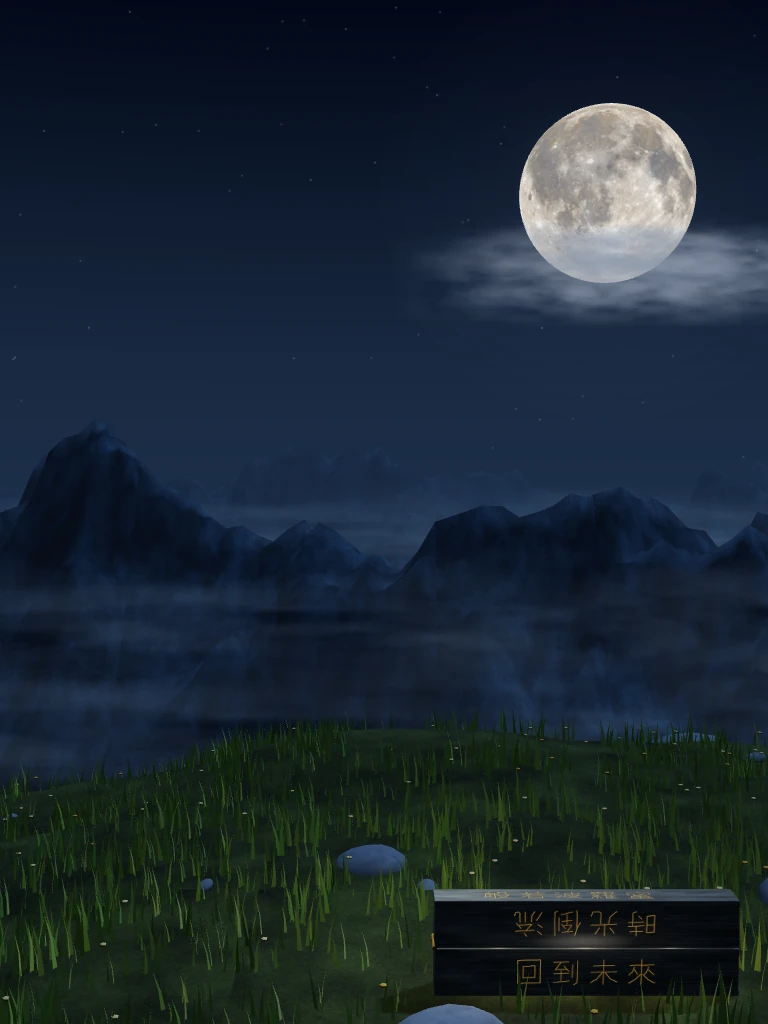
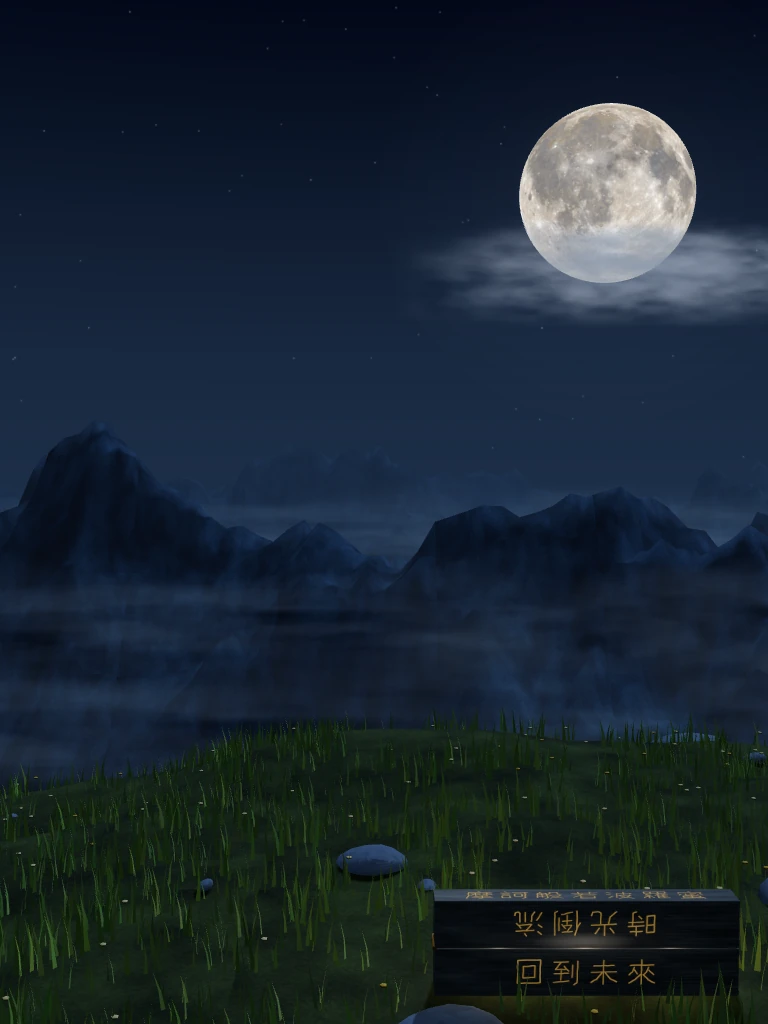
鼠标样式

diff --git a/src/scene/chest-engraving.ts b/src/scene/chest-engraving.ts
@@ -1,5 +1,8 @@
 /** 手绘繁体刻字笔画；保留不规则刻线，颜色、槽深和金色发光均由同一路径生成。 */
 export const glyphs: Record<string, string[]> = {
+  // 「摩訶」沿用手刻路径；訶保留完整言字旁，不能使用简体讠替代。
+  "摩": ["M49 5L57 13M17 28L19 18L95 15M17 28L15 63L6 96", "M25 36L57 34M40 25L39 60M35 40L23 56M44 40L55 53", "M62 35L93 33M77 24L76 60M72 40L59 56M80 39L94 53", "M77 62L36 68M28 77L87 73M24 87L92 82M59 67L58 94L46 98"],
+  "訶": ["M18 7L26 15M5 27L39 25M10 39L35 37M10 51L35 49", "M10 63L35 61L35 90L10 92Z", "M44 20L96 18M51 39L75 37L75 68L50 70ZM86 20L85 89L74 96"],
   "回": ["M13 12L88 10L87 92L12 94ZM31 33L70 31L69 73L30 75Z"],
   "到": ["M8 16L57 13M32 16L14 42L53 39M42 28L59 47", "M10 57L59 54M34 44L33 81M8 88L61 81", "M71 23L70 70M87 8L87 88L76 95"],
   "未": ["M16 29L85 26M8 52L93 48M50 7L49 95", "M45 52L28 76L8 89M55 52L72 74L94 85"],
@@ -17,6 +20,9 @@ export const glyphs: Record<string, string[]> = {
   "寶": ["M47 4L54 12M13 29L15 17L90 15L89 28", "M18 34L44 32M20 45L43 43M30 34L30 56M16 57L45 54", "M57 29L50 40L88 38M60 38L59 54L80 53L82 39M49 58L90 56M70 42L70 56", "M29 64L77 61L77 85L28 88ZM30 72L75 69M29 80L76 77M37 88L14 98M65 86L88 96"],
   "盒": ["M50 8L30 30L8 40M50 9L70 26L92 34M30 34L72 32", "M29 43L75 41L74 60L28 62ZM18 72L84 69L83 90L18 93ZM37 72L37 91M62 71L62 90M9 95L93 92"],
 };
+
+/** 七字咒文在 1536 像素木面上居中排布，保留原有字高与加粗刀槽。 */
+export const spellEngraving = { text: "摩訶般若波羅蜜", x: 150, y: 46, size: 156, spacing: 180 } as const;
 
 /** 字序与每字角度独立控制；围绕字心旋转不会镜像笔画或改变槽深。 */
 type GlyphTransform = { reverse?: boolean; rotation?: number };

diff --git a/src/scene/chest.ts b/src/scene/chest.ts
@@ -3,7 +3,7 @@ import { Initialization } from "./initialization";
 import { ownTree } from "./resources";
 import { RoundedBoxGeometry } from "three/addons/geometries/RoundedBoxGeometry.js";
 import { seededRandom } from "./terrain-math";
-import { engrave, engravingSweep } from "./chest-engraving";
+import { engrave, engravingSweep, spellEngraving } from "./chest-engraving";
 import { chestPlacement } from "./chest-placement";
 import { chestPose } from "./chest-motion";
 import { glowTexture } from "./textures";
@@ -61,7 +61,11 @@ async function makeWood(face: "plain" | "spell" | "name" | "return", init: Initi
     ctx.fillRect(x, y, random() * 35, 1 + random() * 2);
   }
   // 三种纹理同步生成并旋转；展开侧面补偿真实转轴带来的倒置，字形本身不镜像。
-  if (face === "spell") engrave(ctx, bump, glow, "般若波羅蜜", 245, 46, 156, 180);
+  if (face === "spell") {
+    // 完整繁体咒文共用一个排版来源，颜色、槽深、发光和浏览器验收不会漏掉前两个字。
+    const { text, x, y, size, spacing } = spellEngraving;
+    engrave(ctx, bump, glow, text, x, y, size, spacing);
+  }
   if (face === "name") engrave(ctx, bump, glow, "回到未來", 398, 46, 154, 190);
   if (face === "return") engrave(ctx, bump, glow, "時光倒流", 398, 46, 154, 190,
     { reverse: true, rotation: Math.PI });

diff --git a/tests/engraving.test.ts b/tests/engraving.test.ts
@@ -4,7 +4,7 @@ import { engrave, engravingPlacements, glyphs, carvedStrokes, engravingSweep } f
 
 // 三处刻字的全部繁体字都必须有手绘路径，禁止悄悄回退到平台字体。
 test("all three inscriptions have complete hand drawn glyphs", () => {
-  for (const letter of "回到未來般若波羅蜜時光倒流") {
+  for (const letter of "回到未來摩訶般若波羅蜜時光倒流") {
     assert.ok(glyphs[letter]?.length, `缺少字形：${letter}`);
     assert.ok(glyphs[letter].every((stroke) => stroke.startsWith("M")));
   }
@@ -26,7 +26,7 @@ test("gold color, recessed height and soft emission share every glyph transform"
     return ctx;
   };
   try {
-    for (const [text, transform] of [["回到未來", {}], ["般若波羅蜜", {}],
+    for (const [text, transform] of [["回到未來", {}], ["摩訶般若波羅蜜", {}],
       ["時光倒流", { reverse: true, rotation: Math.PI }]] as const) {
       const color = context(), height = context(), emission = context();
       engrave(color, height, emission, text, 100, 40, 154, 190, transform);

diff --git a/src/style.css b/src/style.css
@@ -36,6 +36,20 @@ button:disabled {
 ::selection {
   background: #b398694d;
 }
+/* 桌面精细指针采用原生光标：3,3 对准缩小后棒头的前缘，不使用有跟随延迟的页面装饰层。 */
+@media (min-width: 1024px) and (hover: hover) and (pointer: fine) {
+  :root {
+    cursor: url("/assets/golden-staff-cursor.svg") 3 3, auto;
+  }
+  /* 链接和宝盒按钮共用同一棒头热点；保留原生回退与禁用按钮的等待状态。 */
+  a,
+  #box-button:not(:disabled) {
+    cursor: url("/assets/golden-staff-cursor.svg") 3 3, pointer;
+  }
+  #box-button:disabled {
+    cursor: wait;
+  }
+}
 #app {
   /* 截图原尺寸与宝盒投影共同维护；所有降级元素共享同一个 cover 平面。 */
   --static-image: url("/assets/scene-desktop.webp");
